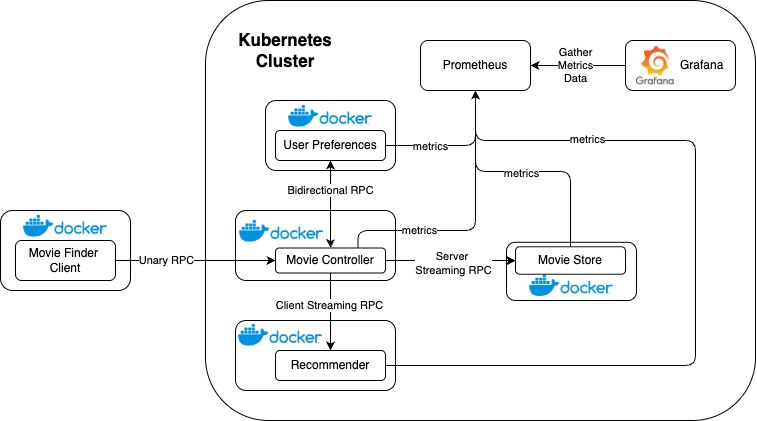
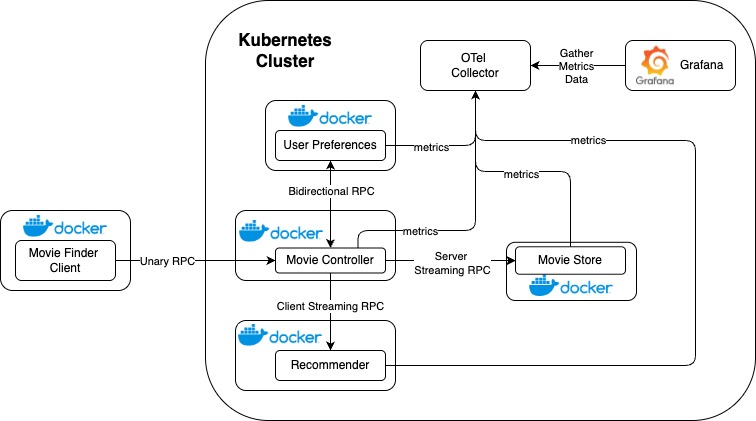
update readme

diff --git a/README.md b/README.md
@@ -56,7 +56,7 @@ Our main goal is to provide telemetry metrics to the system and measure its perf
 
 #### Adding OTel
 
-To add Open Telemetry to our project we need to instantiate a `prometheus server` for each of the applications to measure data like processed requests count and expose ports for collecting these metrics from grafana
+To add Open Telemetry to our project we need to instantiate a `OTel Collector` for each of the applications to measure data like processed requests count and expose ports for collecting these metrics from grafana
 
 #### Containerization and Deployment
 
@@ -66,9 +66,9 @@ Kubernetes deployments and services need to be created to allow for deployement 
 
 #### Setting up metrics and observability
 
-Prometheus and Grafana need to be deployed to the kubernetes cluster. 
+OTel collector and Grafana need to be deployed to the kubernetes cluster. 
 
-Prometheus needs to be set up to gather data from `/metrics` endpoint from each of the services and Grafana needs to be connected to Prometheus as a data source. Grafana dashboards need to be created or imported to visualize data gathered from the services.
+OTel collector needs to be set up to gather data from each of the services and Grafana needs to be connected to OTel collector as a data source. Grafana dashboards need to be created or imported to visualize data gathered from the services.
 
 ![Kubernetes architecture](./assets/kubernetes_diagram.jpg)
 
